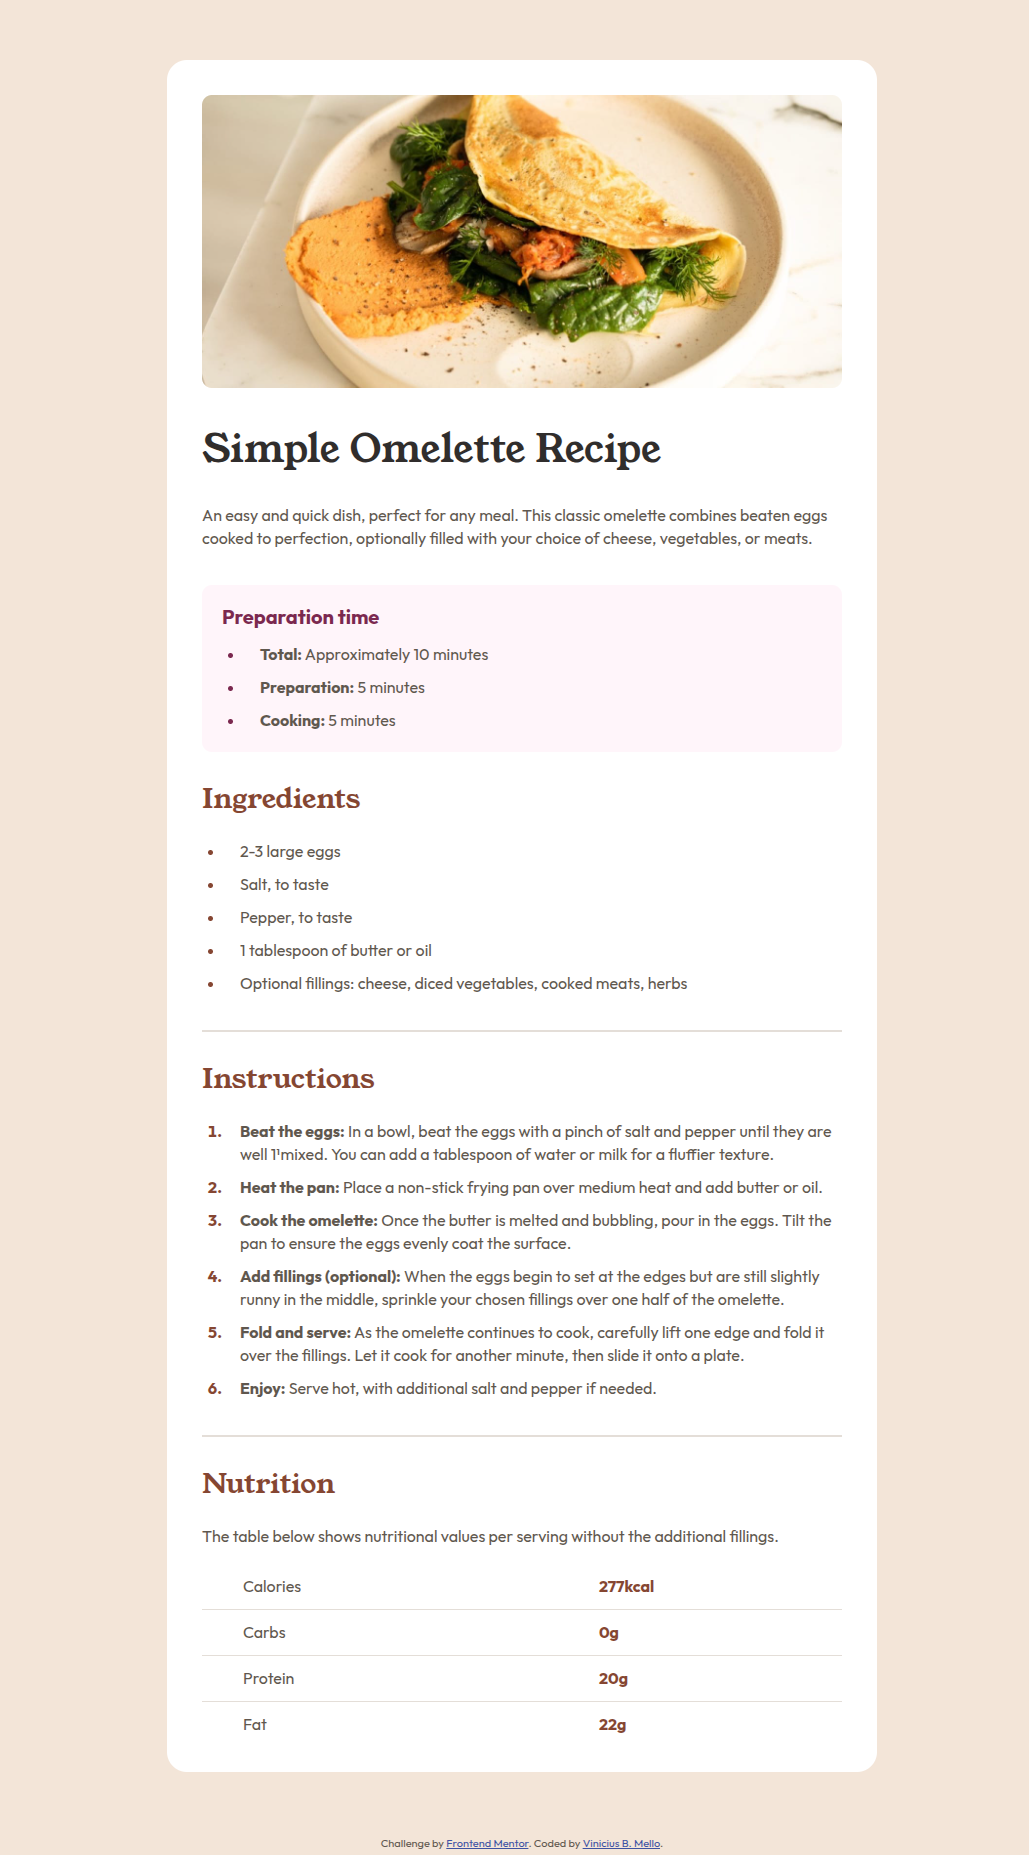
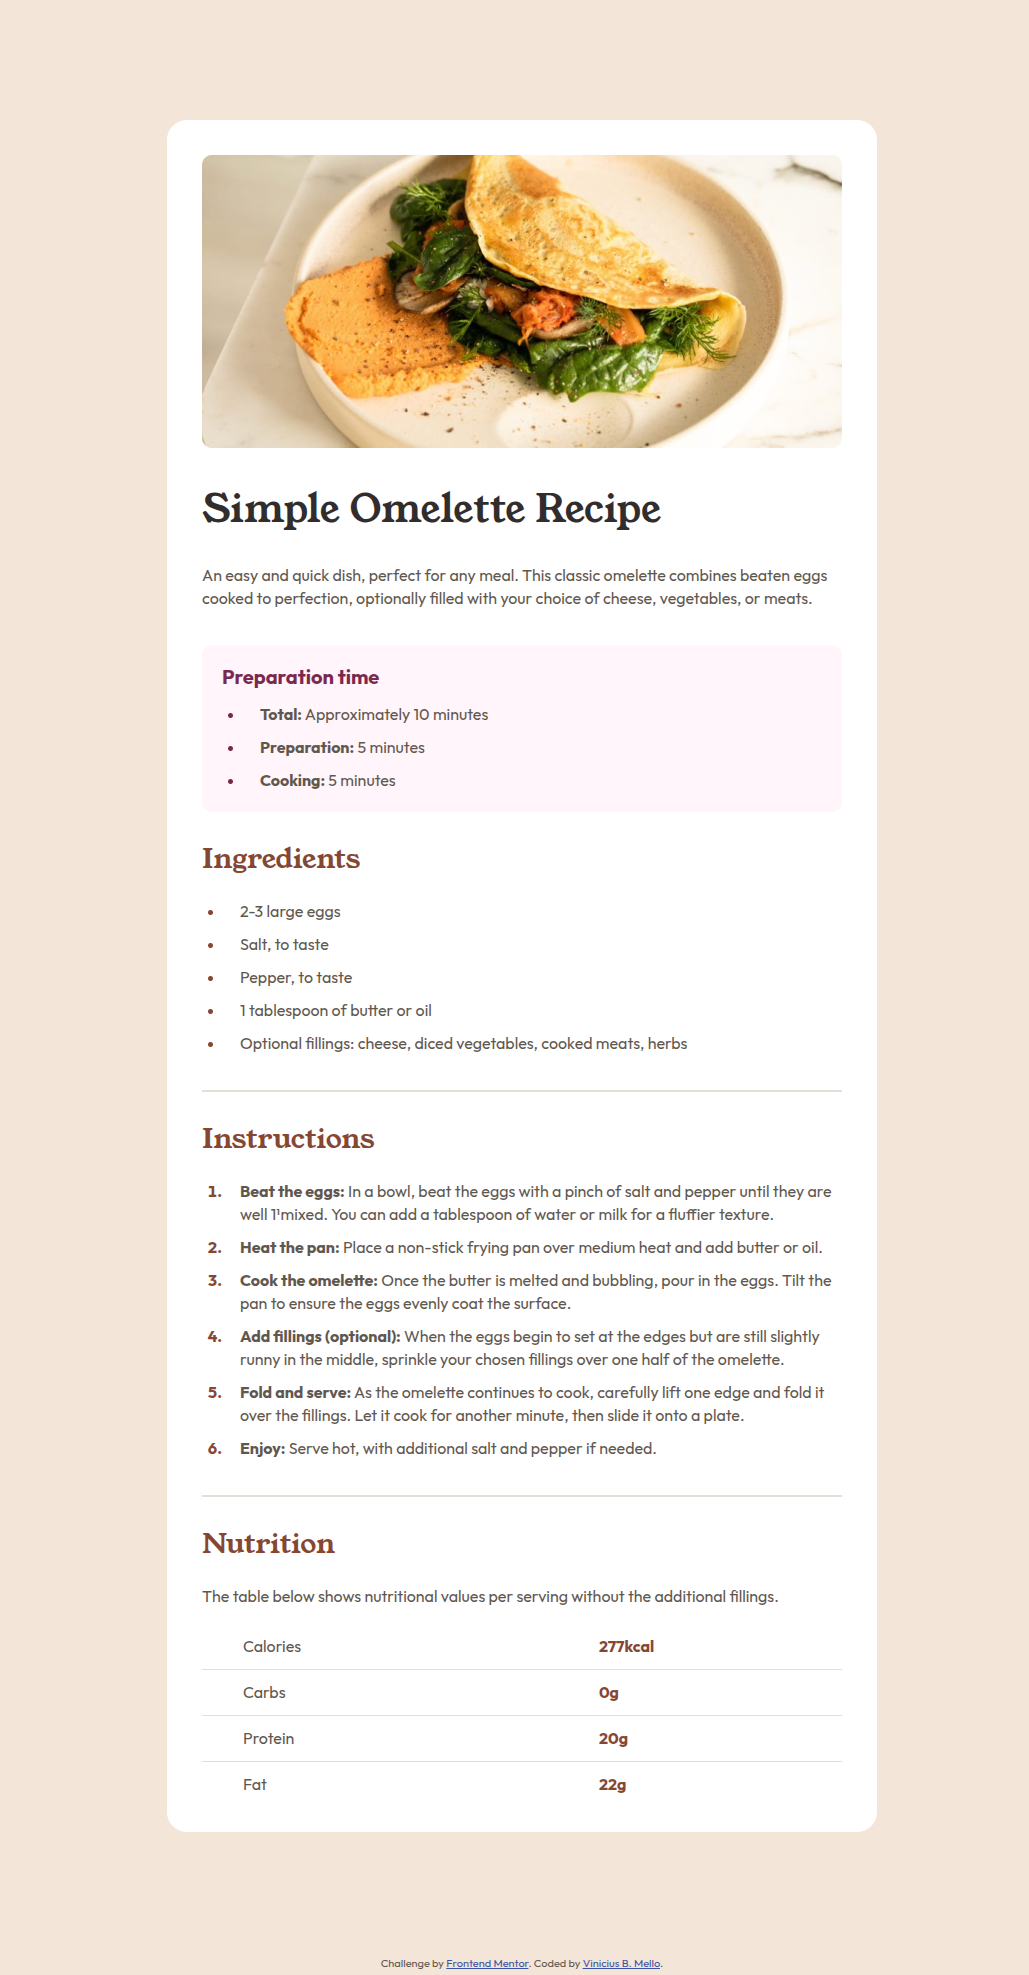
fix recipe-page margin and update README

diff --git a/blocks/recipe-page.css b/blocks/recipe-page.css
@@ -1,5 +1,5 @@
 .recipe-page {
-  margin: 60px auto;
+  margin: 120px auto;
   background-color: hsl(0, 0%, 100%);
   border-radius: 20px;
   max-width: 640px;
